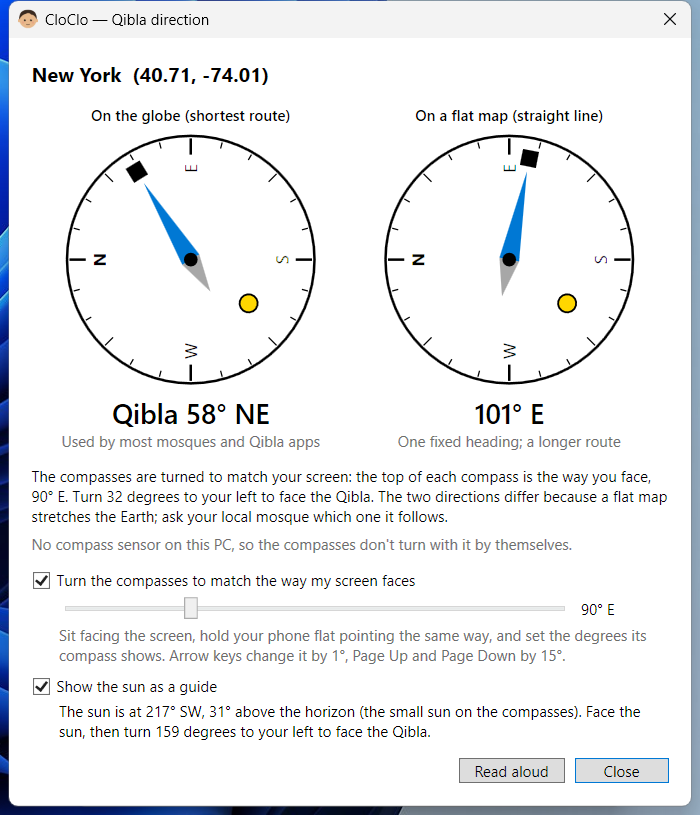
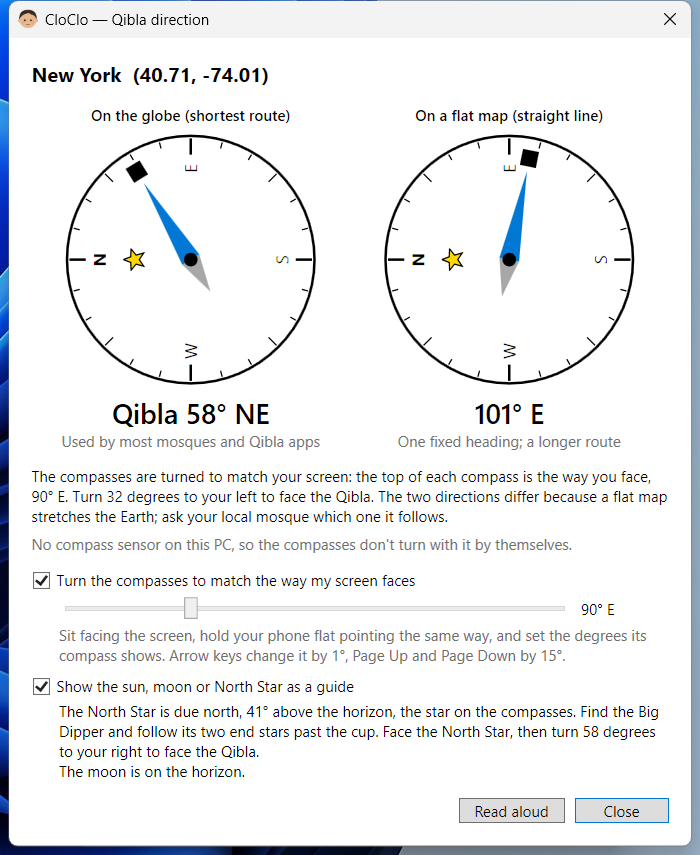
Guide the Qibla by the moon and the North Star at night
The sun guide had nothing to show after sunset. The option, now "Show the
sun, moon or North Star as a guide", keeps the sun by day. At night it
shows the moon while it is up, with its phase, and once the sky is dark
the North Star, due north at the latitude's height, with how to find it
from the Big Dipper. Where the North Star is too low to see, it points to
the Southern Cross for due south. Each guide says how far to turn from it.

MoonPosition uses the main terms of the moon's orbit, correcting for
viewing from the surface rather than the Earth's centre. Checked against
2026's eclipses: on 12 August it puts the moon within 0.1° of the sun from
Valencia and Reykjavik, and on 3 March exactly opposite it, full.

The README paragraph and its screenshot (New York at night) are updated.

diff --git a/src/Views/QiblaWindow.xaml b/src/Views/QiblaWindow.xaml
@@ -39,7 +39,7 @@
         <TextBlock x:Name="SensorText" TextWrapping="Wrap" Margin="0,6,0,0"
                    Foreground="{DynamicResource {x:Static SystemColors.GrayTextBrushKey}}" />
         <!-- Without a compass sensor: the user says once which way the screen
-             faces, and/or lines up with the sun. Both are saved. -->
+             faces, and/or lines up with the sun, moon or North Star. Both are saved. -->
         <CheckBox x:Name="MatchScreenBox" Content="Turn the compasses to match the way my screen faces"
                   Margin="0,14,0,0" Checked="Options_Changed" Unchecked="Options_Changed" />
         <StackPanel x:Name="ScreenHeadingPanel" Margin="22,6,0,0">
@@ -55,7 +55,7 @@
                        Foreground="{DynamicResource {x:Static SystemColors.GrayTextBrushKey}}"
                        Text="Sit facing the screen, hold your phone flat pointing the same way, and set the degrees its compass shows. Arrow keys change it by 1°, Page Up and Page Down by 15°." />
         </StackPanel>
-        <CheckBox x:Name="SunGuideBox" Content="Show the sun as a guide" Margin="0,10,0,0"
+        <CheckBox x:Name="SunGuideBox" Content="Show the sun, moon or North Star as a guide" Margin="0,10,0,0"
                   Checked="Options_Changed" Unchecked="Options_Changed" />
         <TextBlock x:Name="SunText" TextWrapping="Wrap" Margin="22,4,0,0" />
         <StackPanel Orientation="Horizontal" HorizontalAlignment="Right" Margin="0,14,0,0">

diff --git a/src/Views/QiblaWindow.xaml.cs b/src/Views/QiblaWindow.xaml.cs
@@ -21,8 +21,10 @@ public partial class QiblaWindow : Window
     private readonly double? _flatBearing;
     private readonly bool _arabic;
     private readonly List<RotateTransform> _roseRotations = new();
-    private readonly List<RotateTransform> _sunRotations = new();
-    private readonly List<UIElement> _sunMarkers = new();
+    // Sky guides drawn on both compasses: (turn to its azimuth, the marker).
+    private readonly List<(RotateTransform Rotation, UIElement Marker)> _sunMarkers = new();
+    private readonly List<(RotateTransform Rotation, UIElement Marker)> _moonMarkers = new();
+    private readonly List<(RotateTransform Rotation, UIElement Marker)> _starMarkers = new();
     private readonly DispatcherTimer _sunTimer = new() { Interval = TimeSpan.FromMinutes(1) };
     private bool _loading = true;
     private Compass? _compass;
@@ -69,7 +71,7 @@ public partial class QiblaWindow : Window
         SunGuideBox.IsChecked = settings.QiblaSunGuide;
         ShowScreenHeading();
         _loading = false;
-        _sunTimer.Tick += (_, _) => UpdateSun();
+        _sunTimer.Tick += (_, _) => UpdateSky();
         StartCompass();
         ApplyOptions();
         Closed += (_, _) =>
@@ -130,7 +132,7 @@ public partial class QiblaWindow : Window
                 : "North is at the top. Find north with a phone compass or a known landmark, " +
                   $"then turn {Math.Round(bearing) % 360:0} degrees clockwise from it and face that way to pray. {DifferenceNote}";
         }
-        UpdateSun();
+        UpdateSky();
     }
 
     // A turn in degrees, clockwise positive, as an instruction.
@@ -144,35 +146,79 @@ public partial class QiblaWindow : Window
             : $"Turn {-rounded:0} degrees to your left to face the Qibla.";
     }
 
-    private void UpdateSun()
+    // Day: the sun. Night: the moon when it is up, and the North Star, which
+    // stays within a degree of true north all night (northern hemisphere).
+    private void UpdateSky()
     {
         if (!SunGuide || _bearing is not { } bearing)
         {
             _sunTimer.Stop();
-            foreach (var marker in _sunMarkers) marker.Visibility = Visibility.Collapsed;
+            ShowMarkers(_sunMarkers, null);
+            ShowMarkers(_moonMarkers, null);
+            ShowMarkers(_starMarkers, null);
             SunText.Text = "";
             SunText.Visibility = Visibility.Collapsed;
             return;
         }
         _sunTimer.Start();
         SunText.Visibility = Visibility.Visible;
-        var (azimuth, altitude) = PrayerTimesCalculator.SunPosition(DateTime.UtcNow, _settings.Latitude, _settings.Longitude);
-        foreach (var rotation in _sunRotations) rotation.Angle = azimuth;
-        var up = altitude > 0;
-        foreach (var marker in _sunMarkers) marker.Visibility = up ? Visibility.Visible : Visibility.Collapsed;
-        if (!up)
+        var now = DateTime.UtcNow;
+        var latitude = _settings.Latitude;
+        var (sunAzimuth, sunAltitude) = PrayerTimesCalculator.SunPosition(now, latitude, _settings.Longitude);
+        var moon = MoonPosition.At(now, latitude, _settings.Longitude);
+        var lines = new List<string>();
+
+        if (sunAltitude > 0)
         {
-            SunText.Text = "The sun is below the horizon now. The sun guide works in daylight.";
+            ShowMarkers(_sunMarkers, sunAzimuth);
+            ShowMarkers(_moonMarkers, null);
+            ShowMarkers(_starMarkers, null);
+            var where = $"The sun is at {Place(sunAzimuth, sunAltitude)} (the small sun on the compasses).";
+            lines.Add(sunAltitude > 75
+                ? where + " It is almost overhead, so it is not a good guide right now."
+                : where + " " + FaceThen("the sun", bearing - sunAzimuth));
         }
         else
         {
-            var where = $"The sun is at {Math.Round(azimuth) % 360:0}° {QiblaDirection.CardinalOf(azimuth)}, " +
-                $"{Math.Round(altitude):0}° above the horizon (the small sun on the compasses).";
-            SunText.Text = altitude > 75
-                ? where + " It is almost overhead, so it is not a good guide right now."
-                : where + " Face the sun, then t" + TurnText(bearing - azimuth)[1..];
+            ShowMarkers(_sunMarkers, null);
+            var moonUp = moon.Altitude > 2;
+            ShowMarkers(_moonMarkers, moonUp ? moon.Azimuth : null);
+            if (moonUp)
+                lines.Add($"The moon ({moon.PhaseName}) is at {Place(moon.Azimuth, moon.Altitude)}, the grey circle. " +
+                    FaceThen("the moon", bearing - moon.Azimuth));
+            // Stars show once the sky is properly dark (sun 6° or more below).
+            var dark = sunAltitude < -6;
+            var starUp = dark && latitude >= 5;
+            ShowMarkers(_starMarkers, starUp ? 0 : null);
+            if (starUp)
+                lines.Add($"The North Star is due north, {Math.Round(latitude):0}° above the horizon, the star on the compasses. " +
+                    "Find the Big Dipper and follow its two end stars past the cup. " + FaceThen("the North Star", bearing));
+            else if (dark)
+                lines.Add("From here the North Star is too low to see. In the southern sky, the long bar of the " +
+                    "Southern Cross points toward due south. " + FaceThen("due south", bearing - 180));
+            else if (!moonUp)
+                lines.Add("The sun has just set. The North Star shows once the sky is darker; this updates every minute.");
+            if (!moonUp && (dark || latitude < 5))
+                lines.Add(moon.Altitude > -2 ? "The moon is on the horizon." : "The moon is below the horizon now.");
         }
-        AutomationProperties.SetName(SunText, SunText.Text.Replace("°", " degrees"));
+        SunText.Text = string.Join(Environment.NewLine, lines);
+        AutomationProperties.SetName(SunText, string.Join(" ", lines).Replace("°", " degrees"));
+    }
+
+    private static string Place(double azimuth, double altitude) =>
+        $"{Math.Round(azimuth) % 360:0}° {QiblaDirection.CardinalOf(azimuth)}, {Math.Round(altitude):0}° above the horizon";
+
+    // "Face the moon, then turn 66 degrees to your left to face the Qibla."
+    private static string FaceThen(string guide, double turn) =>
+        $"Face {guide}, then t" + TurnText(turn)[1..];
+
+    private static void ShowMarkers(List<(RotateTransform Rotation, UIElement Marker)> markers, double? azimuth)
+    {
+        foreach (var (rotation, marker) in markers)
+        {
+            marker.Visibility = azimuth is null ? Visibility.Collapsed : Visibility.Visible;
+            if (azimuth is { } angle) rotation.Angle = angle;
+        }
     }
 
     // Most PCs have no magnetometer: Compass.GetDefault() is then null. A
@@ -259,22 +305,20 @@ public partial class QiblaWindow : Window
             ticks.Children.Add(label);
         }
 
-        // The sun, inside the rim at its azimuth; shown by the sun guide.
-        var sunRotation = new RotateTransform();
-        _sunRotations.Add(sunRotation);
-        var sun = new Grid
+        // Sky guides, inside the rim at their azimuths. The North Star sits
+        // further in so it stays clear of the N.
+        var sunDisc = new Ellipse { Width = 16, Height = 16, Fill = Brushes.Gold, Stroke = text, StrokeThickness = 1.5 };
+        _sunMarkers.Add(AddSkyMarker(rose, sunDisc, center, 34));
+        var moonDisc = new Ellipse { Width = 15, Height = 15, Fill = Brushes.Gainsboro, Stroke = text, StrokeThickness = 1.5 };
+        _moonMarkers.Add(AddSkyMarker(rose, moonDisc, center, 34));
+        var star = new Polygon { Fill = Brushes.Gold, Stroke = text, StrokeThickness = 1, Width = 18, Height = 18 };
+        for (var i = 0; i < 10; i++)
         {
-            RenderTransformOrigin = new Point(0.5, 0.5), RenderTransform = sunRotation,
-            Visibility = Visibility.Collapsed, IsHitTestVisible = false,
-        };
-        sun.Children.Add(new Ellipse
-        {
-            Width = 16, Height = 16, Fill = Brushes.Gold, Stroke = text, StrokeThickness = 1.5,
-            HorizontalAlignment = HorizontalAlignment.Left, VerticalAlignment = VerticalAlignment.Top,
-            Margin = new Thickness(center - 8, 34, 0, 0),
-        });
-        _sunMarkers.Add(sun);
-        rose.Children.Add(sun);
+            var radius = i % 2 == 0 ? 9.0 : 3.8;
+            var pointAngle = i * Math.PI / 5;
+            star.Points.Add(new Point(9 + radius * Math.Sin(pointAngle), 9 - radius * Math.Cos(pointAngle)));
+        }
+        _starMarkers.Add(AddSkyMarker(rose, star, center, 46));
 
         if (bearing is { } angle)
         {
@@ -301,6 +345,22 @@ public partial class QiblaWindow : Window
         }
         rose.Children.Add(new Ellipse { Width = 11, Height = 11, Fill = text });
         return area;
+    }
+
+    private static (RotateTransform, UIElement) AddSkyMarker(Grid rose, FrameworkElement shape, double center, double top)
+    {
+        shape.HorizontalAlignment = HorizontalAlignment.Left;
+        shape.VerticalAlignment = VerticalAlignment.Top;
+        shape.Margin = new Thickness(center - shape.Width / 2, top, 0, 0);
+        var rotation = new RotateTransform();
+        var holder = new Grid
+        {
+            RenderTransformOrigin = new Point(0.5, 0.5), RenderTransform = rotation,
+            Visibility = Visibility.Collapsed, IsHitTestVisible = false,
+        };
+        holder.Children.Add(shape);
+        rose.Children.Add(holder);
+        return (rotation, holder);
     }
 
     private void ReadAloud_Click(object sender, RoutedEventArgs e)

diff --git a/src/Services/MoonPosition.cs b/src/Services/MoonPosition.cs
@@ -1,0 +1,71 @@
+using System;
+
+namespace CloCloWidget;
+
+// Where the moon is in the sky, from the main terms of its orbit (good to
+// a few tenths of a degree, ample for facing it), plus how lit it is.
+public static class MoonPosition
+{
+    public readonly record struct Reading(double Azimuth, double Altitude, double Illumination, bool Waxing)
+    {
+        public string PhaseName => Illumination switch
+        {
+            < 0.03 => "new moon",
+            < 0.40 => Waxing ? "waxing crescent" : "waning crescent",
+            < 0.60 => Waxing ? "first-quarter half moon" : "last-quarter half moon",
+            < 0.97 => Waxing ? "waxing gibbous" : "waning gibbous",
+            _ => "full moon",
+        };
+    }
+
+    public static Reading At(DateTime utc, double latitude, double longitude)
+    {
+        var d = utc.ToOADate() + 2415018.5 - 2451545.0;
+        var meanLongitude = 218.316 + 13.176396 * d;
+        var anomaly = Rad(134.963 + 13.064993 * d);
+        var latitudeArgument = Rad(93.272 + 13.229350 * d);
+        var elongation = Rad(297.850 + 12.190749 * d);
+        var sunAnomaly = Rad(357.529 + 0.98560028 * d);
+
+        var lambda = Rad(meanLongitude + 6.289 * Math.Sin(anomaly)
+            + 1.274 * Math.Sin(2 * elongation - anomaly)
+            + 0.658 * Math.Sin(2 * elongation)
+            + 0.214 * Math.Sin(2 * anomaly)
+            - 0.186 * Math.Sin(sunAnomaly)
+            - 0.114 * Math.Sin(2 * latitudeArgument));
+        var beta = Rad(5.128 * Math.Sin(latitudeArgument)
+            + 0.281 * Math.Sin(anomaly + latitudeArgument)
+            + 0.278 * Math.Sin(anomaly - latitudeArgument)
+            + 0.173 * Math.Sin(2 * elongation - latitudeArgument));
+        var obliquity = Rad(23.439 - 0.0000004 * d);
+
+        var rightAscension = Math.Atan2(
+            Math.Sin(lambda) * Math.Cos(obliquity) - Math.Tan(beta) * Math.Sin(obliquity), Math.Cos(lambda));
+        var declination = Math.Asin(Math.Sin(beta) * Math.Cos(obliquity) +
+            Math.Cos(beta) * Math.Sin(obliquity) * Math.Sin(lambda));
+        var siderealTime = Rad(280.46061837 + 360.98564736629 * d + longitude);
+        var hourAngle = siderealTime - rightAscension;
+
+        var lat = Rad(latitude);
+        var altitude = Deg(Math.Asin(Math.Clamp(Math.Sin(lat) * Math.Sin(declination) +
+            Math.Cos(lat) * Math.Cos(declination) * Math.Cos(hourAngle), -1, 1)));
+        // Seen from the surface, not the Earth's centre, the moon sits up
+        // to about a degree lower.
+        altitude -= 0.95 * Math.Cos(Rad(altitude));
+        var azimuth = QiblaDirection.Normalize(Deg(Math.Atan2(Math.Sin(hourAngle),
+            Math.Cos(hourAngle) * Math.Sin(lat) - Math.Tan(declination) * Math.Cos(lat))) + 180.0);
+
+        // The angle between moon and sun as seen from Earth sets the phase.
+        var phaseAngle = QiblaDirection.Normalize(Deg(lambda) - SunLongitude(d));
+        return new Reading(azimuth, altitude, (1 - Math.Cos(Rad(phaseAngle))) / 2, phaseAngle < 180);
+    }
+
+    private static double SunLongitude(double d)
+    {
+        var anomaly = Rad(357.529 + 0.98560028 * d);
+        return 280.459 + 0.98564736 * d + 1.915 * Math.Sin(anomaly) + 0.020 * Math.Sin(2 * anomaly);
+    }
+
+    private static double Rad(double degrees) => degrees * Math.PI / 180.0;
+    private static double Deg(double radians) => radians * 180.0 / Math.PI;
+}

diff --git a/README.md b/README.md
@@ -231,16 +231,19 @@ city. Compare calculated times with your local mosque.
     Page Down by 15°). The top of each compass is then the way you face, and
     CloClo says how far to turn left or right. Set it again if you move the
     PC.
-  - **Show the sun as a guide:** a small sun on both compasses shows where
-    the sun is now, worked out from your location and the time, with "face
-    the sun, then turn N degrees to your left or right". It updates every
-    minute, is hidden after sunset, and says so when the sun is too close to
-    overhead to be useful.
+  - **Show the sun, moon or North Star as a guide:** markers on both
+    compasses show where to look now, worked out from your location and the
+    time, each with "face it, then turn N degrees to your left or right". By
+    day it's the sun (with a warning when it's too close to overhead to be
+    useful). At night it's the moon while it's up, with its phase, and the
+    North Star, which stays due north all night once the sky is dark; CloClo
+    says how to find it from the Big Dipper. Where the North Star is too low
+    to see, it points to the Southern Cross instead. It updates every minute.
 
   **Read aloud** speaks the directions, in Arabic when Arabic voice commands
   are on, and screen readers read each compass as its direction.
 
-  <img src="docs/screenshots/features/qibla.png" alt="Qibla direction window for New York: Qibla 58° NE on the globe compass and 101° E on the flat-map compass, both turned so the top is east, the way the screen faces; a small sun shown to the south-west with 'Face the sun, then turn 159 degrees to your left'; the screen-direction slider at 90° E and the sun guide ticked" width="460">
+  <img src="docs/screenshots/features/qibla.png" alt="Qibla direction window for New York at night: Qibla 58° NE on the globe compass and 101° E on the flat-map compass, both turned so the top is east, the way the screen faces; the North Star marked due north with 'Face the North Star, then turn 58 degrees to your right'; the screen-direction slider at 90° E and the sun, moon or North Star guide ticked" width="460">
 - **Azan:** automatic azan is off until you choose a local MP3 or WAV
   recording and enable it. CloClo plays the recording at the five prayer
   times while it is running; it does not replay prayers missed while the PC
